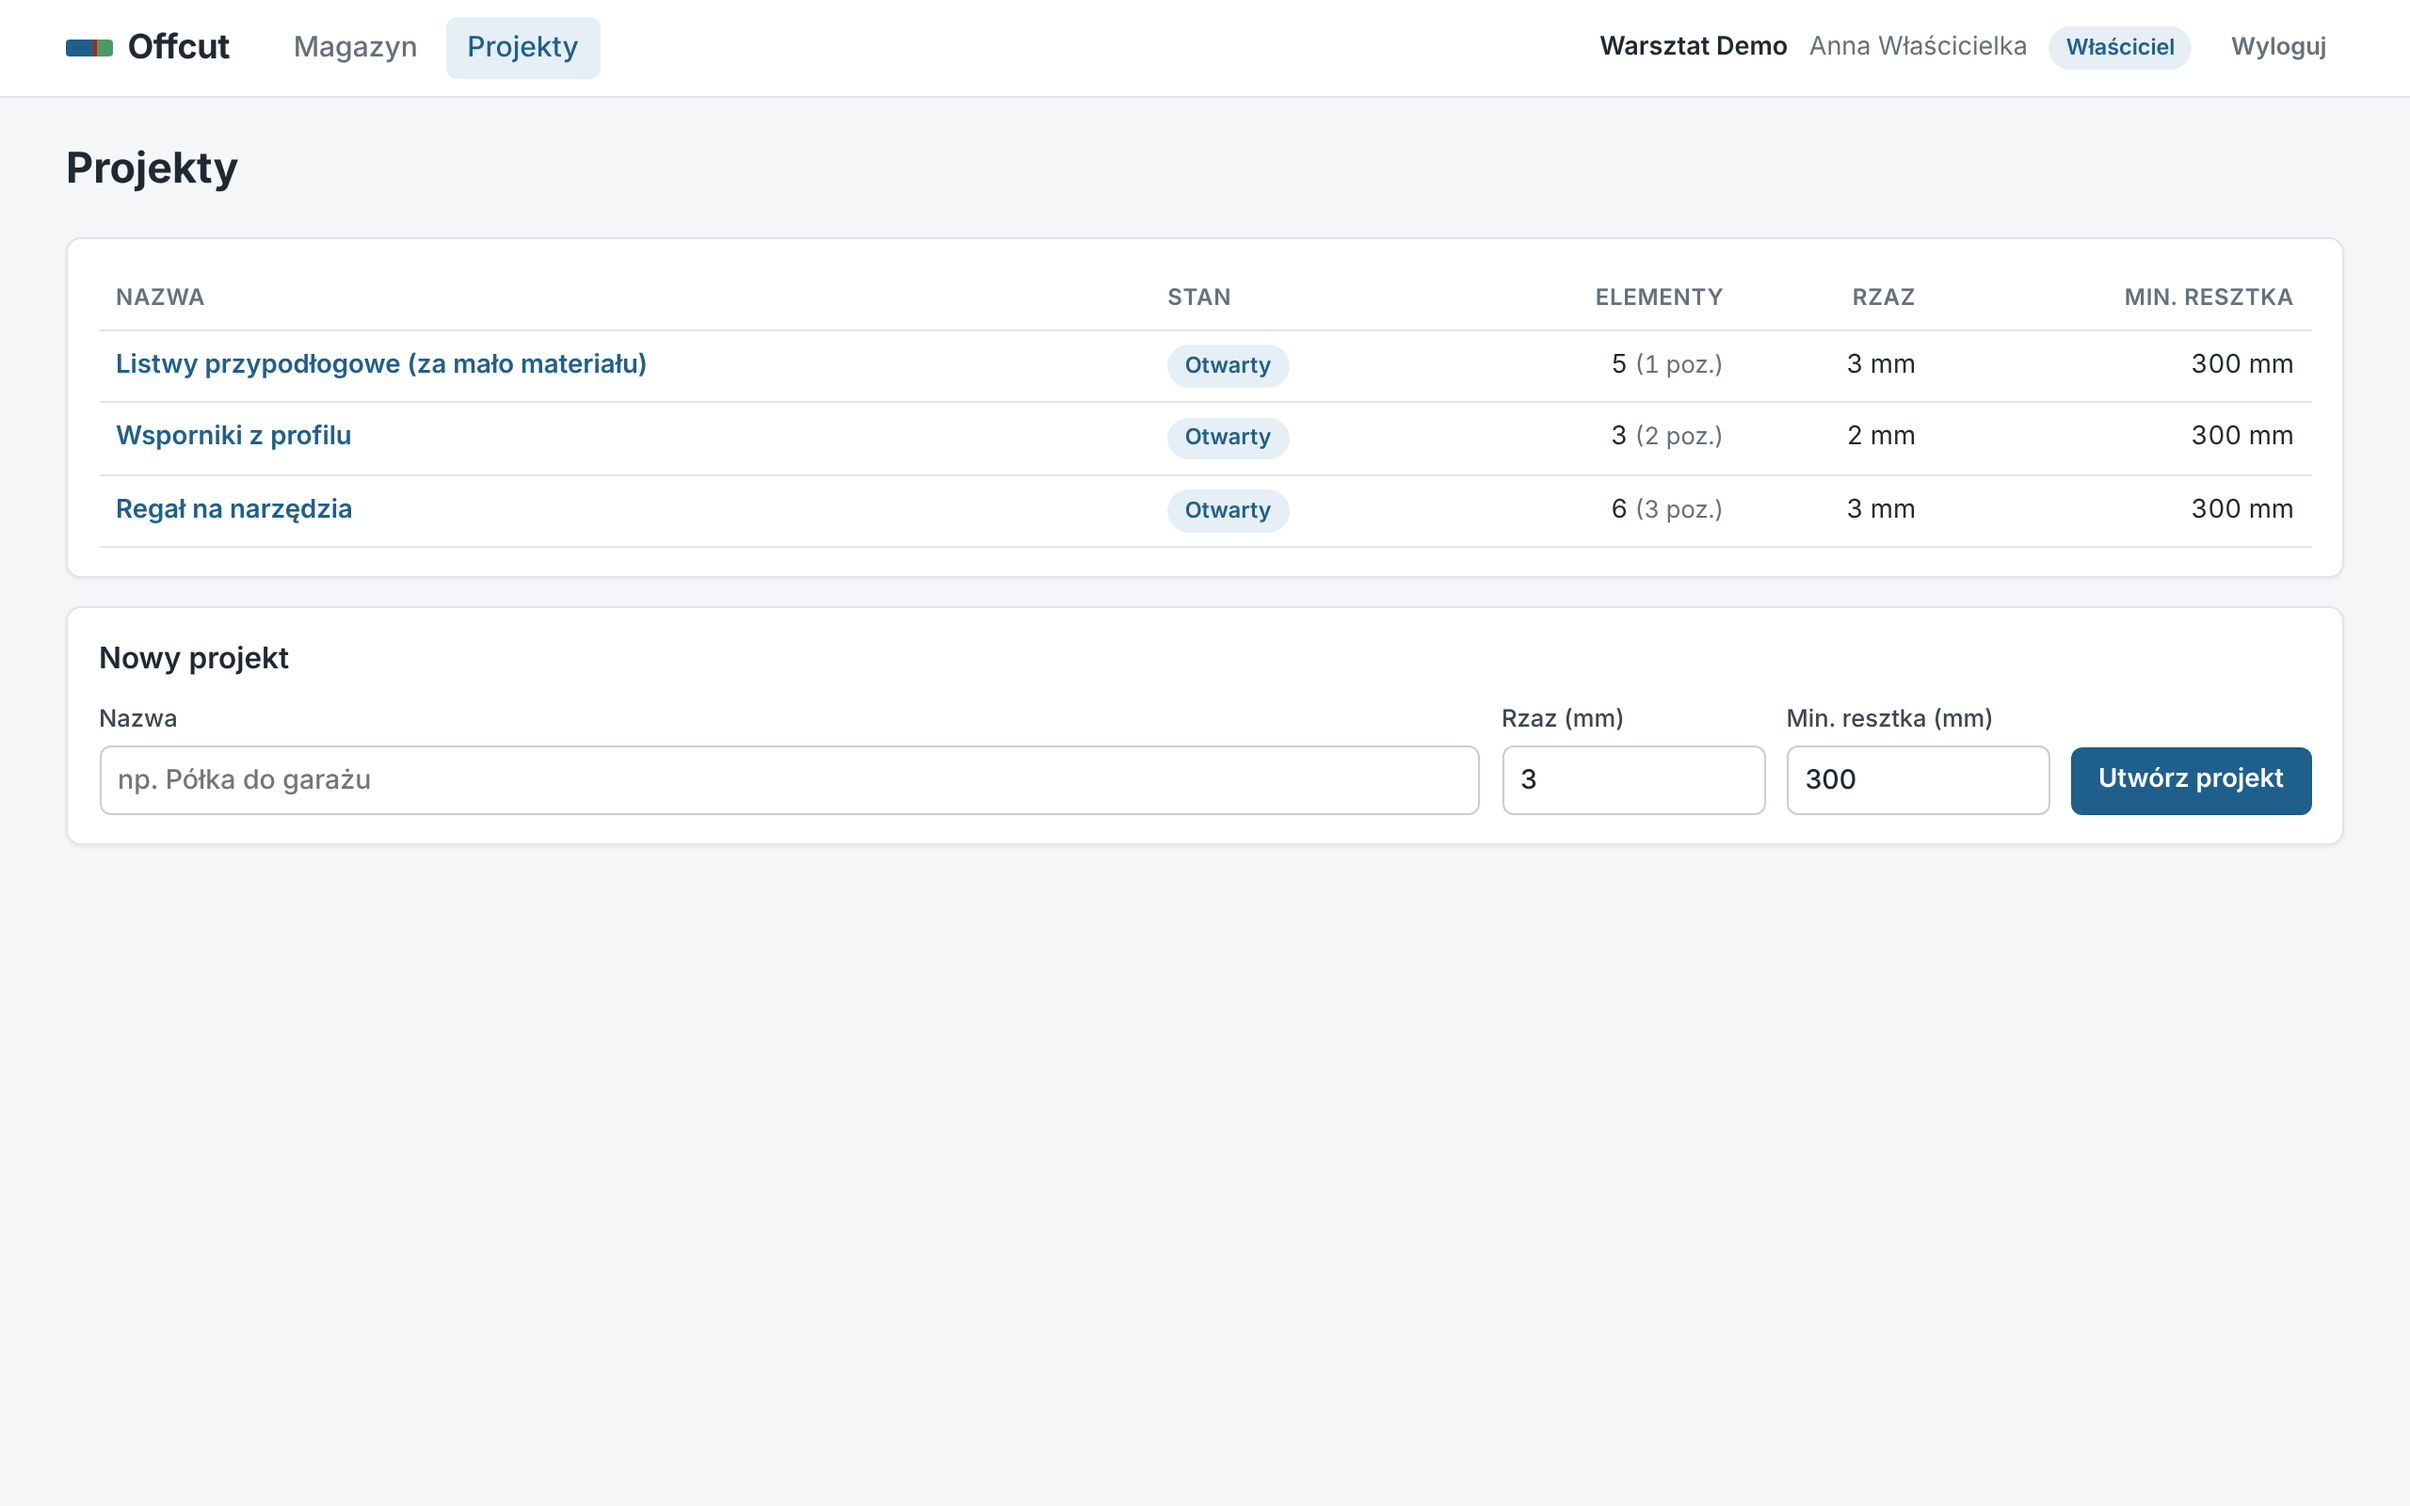
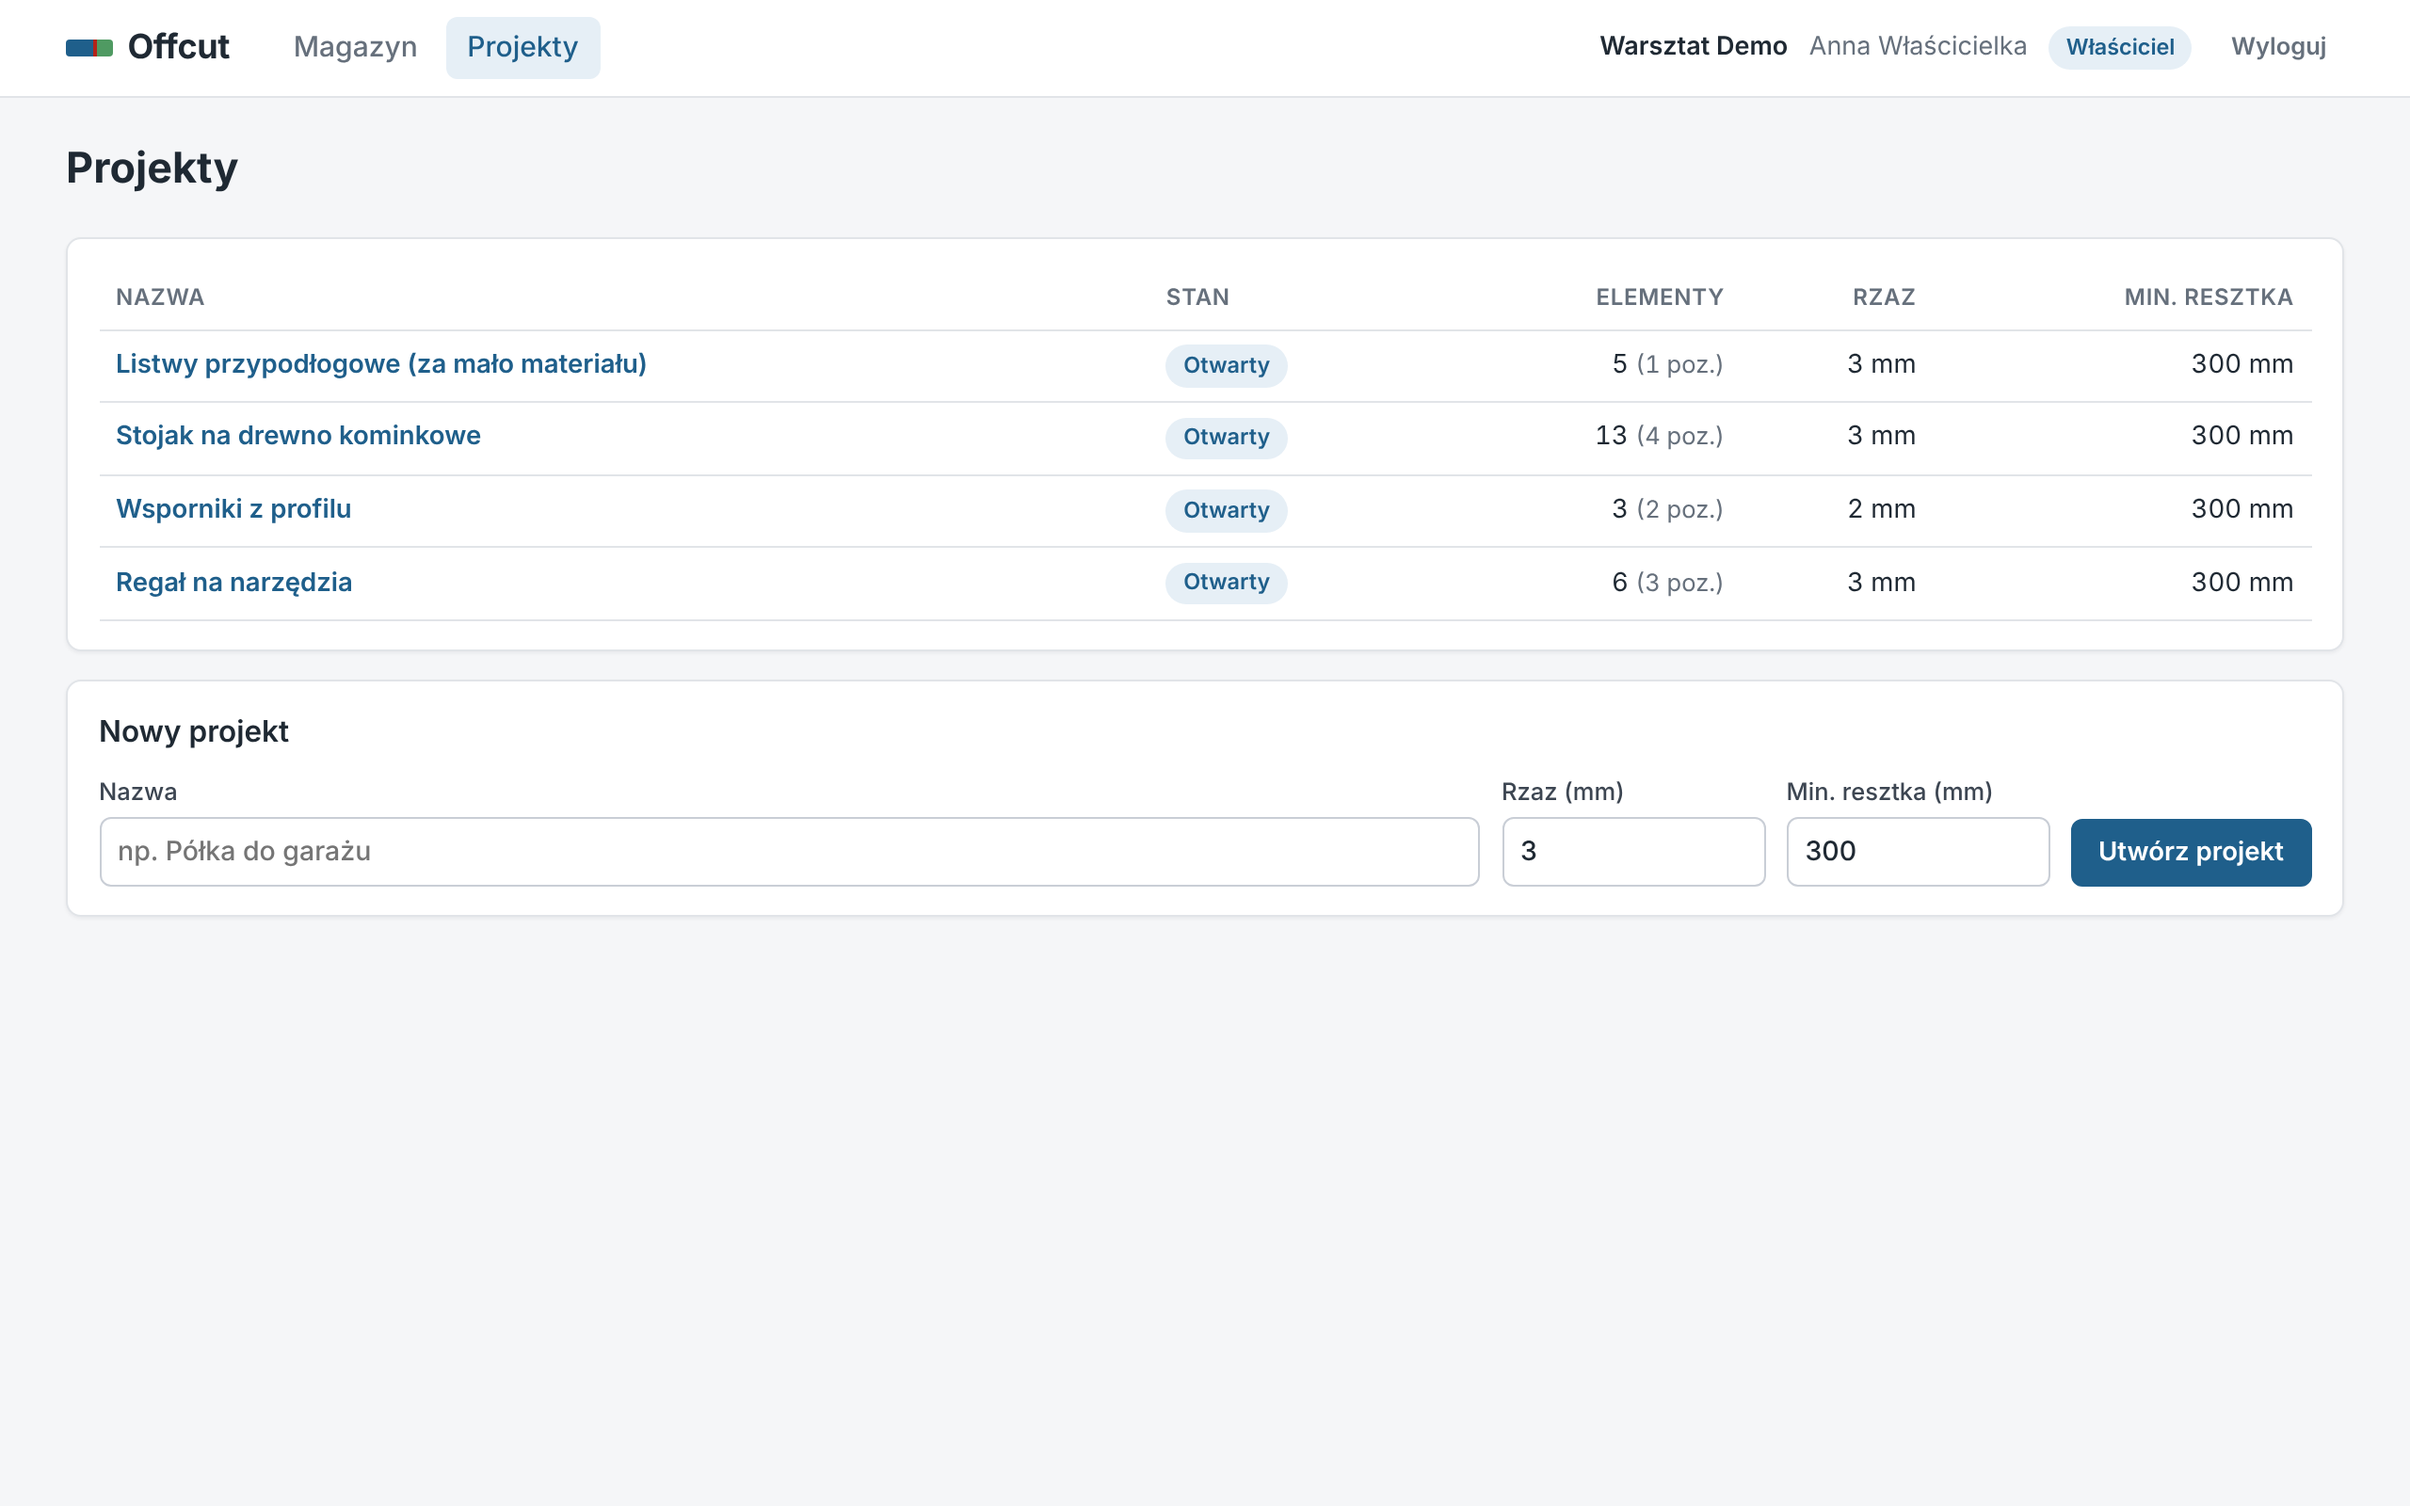
docs: document larger demo project, cut instructions and session 2 status

diff --git a/docs/DEMO.md b/docs/DEMO.md
@@ -17,17 +17,18 @@ Konta demo (hasło `Demo1234!`): `wlasciciel@offcut.demo`, `operator@offcut.demo
 | Czas | Krok | Co pokazać / powiedzieć | Oczekiwany wynik |
 |---|---|---|---|
 | 0:00 | Logowanie jako `wlasciciel@offcut.demo` | Sesja w cookie HttpOnly + token CSRF; role właściciel / operator | nagłówek: „Warsztat Demo · Właściciel” |
-| 0:20 | **Magazyn** | Każdy odcinek ma własne ID; resztki 1250/1900/1400/900 mm i 3 nowe listwy 3000 mm (sosna 40×20) | 10 dostępnych odcinków, 28 650 mm |
+| 0:20 | **Magazyn** | Każdy odcinek ma własne ID; np. sosna 40×20: resztki 1250/1900/1400/900 mm i 3 nowe listwy 3000 mm | 20 dostępnych odcinków, 48 200 mm (sosna, aluminium, świerk) |
 | 0:45 | **Projekty → „Regał na narzędzia”** | Zapotrzebowanie: 2×950, 1×600, 3×560 mm; rzaz 3 mm, próg resztki 300 mm | 6 elementów, 4180 mm |
 | 1:05 | **Optymalizuj rozkrój** | Obie metody liczą na tych samych danych | FFD: 5450 mm, 4 odcinki, odpad 823 mm; B&B: **4900 mm, 2 odcinki, odpad 18 mm, status „Optymalny”** |
 | 1:30 | Schemat rozkroju (przełącz FFD / B&B) | Paski: elementy, czerwony rzaz między elementami, cięcie końcowe, zielona resztka / szary odpad | B&B: 1900 → 950+600+resztka 344; 3000 → 950+3×560+resztka 358 |
 | 2:00 | Wyjaśnienie algorytmu (poniżej) | FFD vs branch and bound, statusy | — |
 | 2:30 | Na liście „Wygenerowane plany” otwórz plan FFD **w nowej karcie** (symulacja drugiego użytkownika), wróć do pierwszej karty i kliknij **Zarezerwuj ten plan** przy B&B | Odcinki przechodzą w stan zarezerwowany, projekt jest zablokowany | status planu „Zarezerwowany” |
 | 2:45 | **Sytuacja błędna**: w drugiej karcie (plan FFD) kliknij **Zarezerwuj materiał** | Oba plany używają resztki 1900 mm – ochrona przed podwójną rezerwacją (blokady wierszy w PostgreSQL) | „Konflikt: Materiał niedostępny … Odcinek #2 (1900 mm) jest zarezerwowany” (409) |
-| 3:05 | Wyloguj, zaloguj `operator@offcut.demo`, otwórz plan, **Zatwierdź wykonanie** | Operator nie może planować ani rezerwować, może zatwierdzić wykonanie | status „Wykonany”, utworzone resztki **344 mm i 358 mm** |
+| 3:05 | Wyloguj, zaloguj `operator@offcut.demo`, otwórz plan (link w banerze projektu), pokaż **Instrukcję cięcia** i przycisk „Drukuj instrukcję”, **Zatwierdź wykonanie** | Operator nie może planować ani rezerwować, może zatwierdzić wykonanie | status „Wykonany”, utworzone resztki **344 mm i 358 mm** |
 | 3:35 | **Magazyn → tylko resztki** | Resztki mają pochodzenie („z planu #…, z odcinka #…”); odcinki 1900 i 3000 są zużyte | 2 nowe resztki dostępne do kolejnych projektów |
-| 3:55 | Projekt **„Listwy przypodłogowe (za mało materiału)”** → Optymalizuj (jako właściciel) | Uczciwe raportowanie braku materiału | „Brak materiału / brak planu” + komunikat z wymaganą i dostępną długością |
-| 4:15 | (opcjonalnie) Swagger `/api/docs` lub `obcy@offcut.demo` → `/projects/1` | Izolacja warsztatów – 404 również po bezpośrednim ID | „Nie znaleziono: projekt” |
+| 3:55 | Jako właściciel: projekt **„Stojak na drewno kominkowe”** → Optymalizuj | Większy problem (13 elementów, 10¹³ możliwych przydziałów) – „na kalkulatorze” się nie da | FFD: 14 150 mm, 8 odcinków; B&B: **10 200 mm, 4 odcinki**, „Optymalny” |
+| 4:20 | Projekt **„Listwy przypodłogowe (za mało materiału)”** → Optymalizuj (jako właściciel) | Uczciwe raportowanie braku materiału | „Brak materiału / brak planu” + komunikat z wymaganą i dostępną długością |
+| 4:40 | (opcjonalnie) Swagger `/api/docs` lub `obcy@offcut.demo` → `/projects/1` | Izolacja warsztatów – 404 również po bezpośrednim ID | „Nie znaleziono: projekt” |
 
 Dodatkowo (jeśli jest czas): projekt „Wsporniki z profilu” – obie metody dają ten sam wynik
 (resztka 2200 mm) i UI mówi to wprost, bez wskazywania „lepszej” metody.
@@ -60,3 +61,5 @@ Dodatkowo (jeśli jest czas): projekt „Wsporniki z profilu” – obie metody 
 | `08-resztki-w-magazynie.png` | resztki z pochodzeniem w magazynie |
 | `09-brak-materialu.png` | brak materiału |
 | `10-konflikt-rezerwacji.png` | konflikt rezerwacji (409) |
+| `11-wiekszy-projekt-porownanie.png` | większy projekt (13 elementów) – porównanie metod |
+| `12-instrukcja-do-druku.png` | plan w widoku do druku z instrukcją cięcia |

diff --git a/README.md b/README.md
@@ -13,10 +13,12 @@ Projekt indywidualny z przedmiotu ZTPAI (Politechnika Krakowska, zima 2026/27).
 * logowanie (cookie HttpOnly + CSRF), role **właściciel** i **operator** warsztatu, izolacja warsztatów,
 * ewidencja odcinków i resztek – każdy fizyczny odcinek ma własne ID i historię (pochodzenie resztki),
 * specyfikacje materiałów (materiał + przekrój) i zgodność materiałowa przy planowaniu,
-* projekty cięcia: zapotrzebowanie (specyfikacja, długość, liczba sztuk), rzaz, próg użytecznej resztki,
+* projekty cięcia: zapotrzebowanie (specyfikacja, długość, liczba sztuk; dodawanie, edycja, usuwanie),
+  rzaz, próg użytecznej resztki,
 * **optymalizacja rozkroju 1D**: FFD vs branch and bound na tych samych danych, statusy wyniku,
   limity obliczeń, raport braku materiału,
 * graficzny schemat cięcia (elementy, rzaz, resztka/odpad) i porównanie metod,
+* instrukcja cięcia krok po kroku do druku (pozycje linii cięcia, co zrobić z pozostałością),
 * rezerwacja materiału z ochroną przed podwójną rezerwacją (blokady w PostgreSQL),
 * zatwierdzanie wykonania – idempotentne, atomowe zużycie odcinków i zapis resztek do magazynu,
 * unieważnianie planów po zmianie zapotrzebowania lub parametrów,
@@ -122,8 +124,16 @@ Hasło dla wszystkich: `Demo1234!`
 | `operator@offcut.demo` | operator | Warsztat Demo |
 | `obcy@offcut.demo` | właściciel | Stolarnia Obca (do pokazania izolacji) |
 
-Dane demo zawierają projekt „Regał na narzędzia”, w którym branch and bound zużywa 4900 mm materiału
-zamiast 5450 mm z heurystyki, projekt z remisem metod i projekt z brakiem materiału.
+Dane demo zawierają:
+
+| Projekt | Heurystyka FFD | Branch and bound |
+|---|---|---|
+| „Regał na narzędzia” (6 elementów, sosna) | 5450 mm, 4 odcinki | **4900 mm, 2 odcinki** |
+| „Stojak na drewno kominkowe” (13 elementów, świerk) | 14 150 mm, 8 odcinków | **10 200 mm, 4 odcinki** |
+| „Wsporniki z profilu” (aluminium) | 2200 mm, 1 odcinek | 2200 mm, 1 odcinek (remis) |
+| „Listwy przypodłogowe (za mało materiału)” | brak planu | brak planu – raport braku materiału |
+
+Wyniki są sprawdzane testem `backend/tests/test_seed.py`.
 Scenariusz prezentacji: [`docs/DEMO.md`](docs/DEMO.md).
 
 ## Testy

diff --git a/docs/ALGORITHM.md b/docs/ALGORITHM.md
@@ -184,6 +184,22 @@ a resztki 1250, 1400 i 900 mm zostają w magazynie nietknięte. Liczby są spraw
 `test_demo_case_branch_and_bound_beats_greedy` (wynik B&B zgodny z pełnym przeglądem) i testem
 API `test_full_flow_login_demand_optimize_reserve_execute_remnants`.
 
+### Większy przykład (dane demo „Stojak na drewno kominkowe”)
+
+Świerk 45×45 mm, rzaz 3 mm, próg 300 mm. Magazyn: resztki 2100, 1300, 1100, 850, 700 mm i 5 nowych
+kantówek 2700 mm. Zapotrzebowanie: 4 × 1150, 4 × 760, 3 × 520, 2 × 420 mm (13 elementów, 10 040 mm).
+
+| Metoda | Zużycie | Odcinki | Odpad | Uwagi |
+|---|---|---|---|---|
+| FFD | 14 150 mm | 8 | 734 mm | m.in. cała nowa kantówka 2700 mm rozpoczęta dla jednego elementu 420 mm |
+| B&B (`OPTIMAL`, 3257 węzłów) | 10 200 mm | 4 | 160 mm | 2100 = 1150 + 520 + 420; 2 × (2700 = 1150 + 760 + 760); 2700 = 1150 + 520 + 520 + 420 |
+
+Oszczędność: 3950 mm materiału i 4 odcinki. Test: `test_larger_demo_case_branch_and_bound_saves_bars`.
+Przy 13 elementach i 10 odcinkach przestrzeń przydziałów to 10¹³ – to przykład, którego nie da się
+rozsądnie policzyć ręcznie ani kalkulatorem.
+
+### Remis metod
+
 Gdy obie metody znajdują plan o tej samej wartości funkcji celu, UI i API mówią to wprost
 („Obie metody dały plan o tej samej wartości funkcji celu”). W danych demo jest to projekt
 „Wsporniki z profilu” (aluminium, 2 × 1000 + 1 × 150 mm, rzaz 2 mm): obie metody tną resztkę 2200 mm
